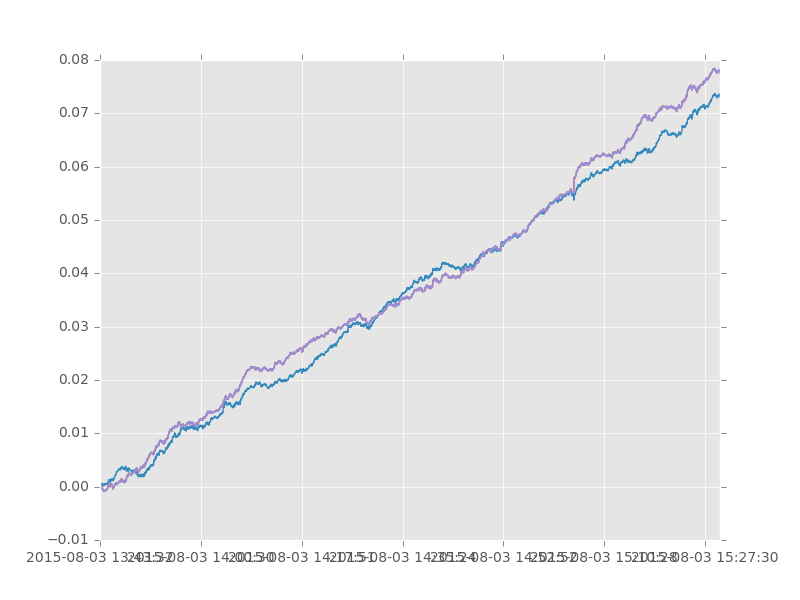
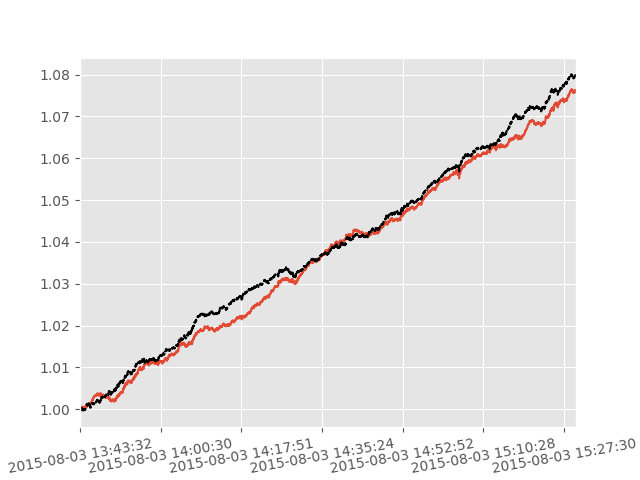
updated plot xlab style

diff --git a/stock-model.py b/stock-model.py
@@ -21,6 +21,7 @@ import matplotlib.pyplot as plt
 import matplotlib 
 
 matplotlib.style.use('ggplot')
+plt.xticks(rotation=70)
 
 """数据导入
 
@@ -64,9 +65,9 @@ print(median_absolute_error(y_test, y_pred))
 
 cc = np.sign(y_pred)*y_test
 cumulative_return = (cc+1).cumprod()
-cumulative_return.plot()
-## plt.savefig("plots/performance-simple-linreg.png")
-plt.show()
+cumulative_return.plot(rot=10)
+plt.savefig("plots/performance-simple-linreg.png")
+# plt.show()
 
 """更复杂的Pipeline
 
@@ -99,9 +100,9 @@ print(median_absolute_error(y_test, y_pred_2))
 
 cc_2 = np.sign(y_pred_2)*y_test
 cumulative_return_2 = (cc_2+1).cumprod()
-cumulative_return_2.plot()
-## plt.savefig("plots/performance-more-variables.png")
-plt.show()
+cumulative_return_2.plot(style="k--", rot=10)
+plt.savefig("plots/performance-more-variables.png")
+# plt.show()
 
 """ 预测运行时间有多长?
 """ 
